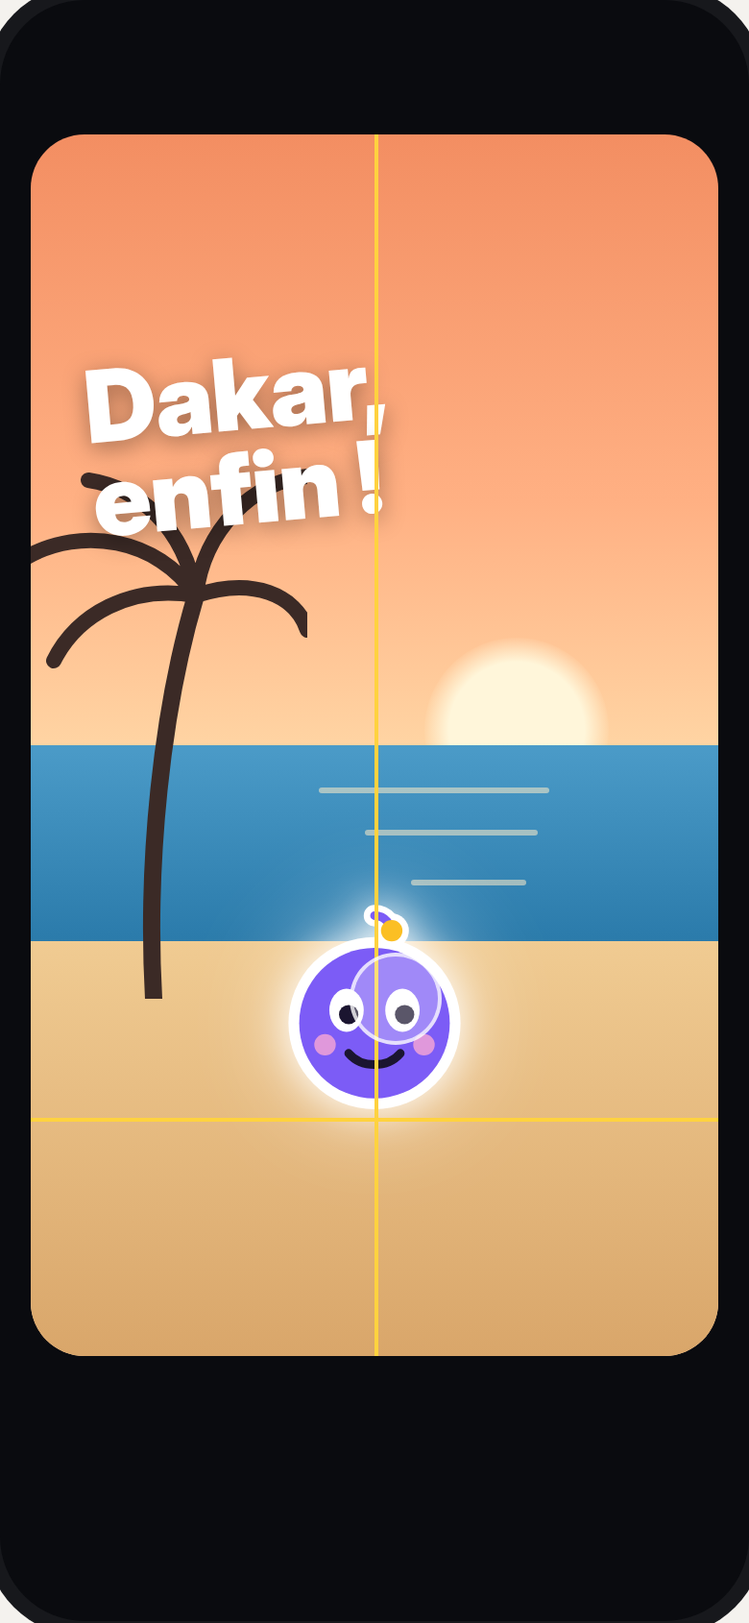
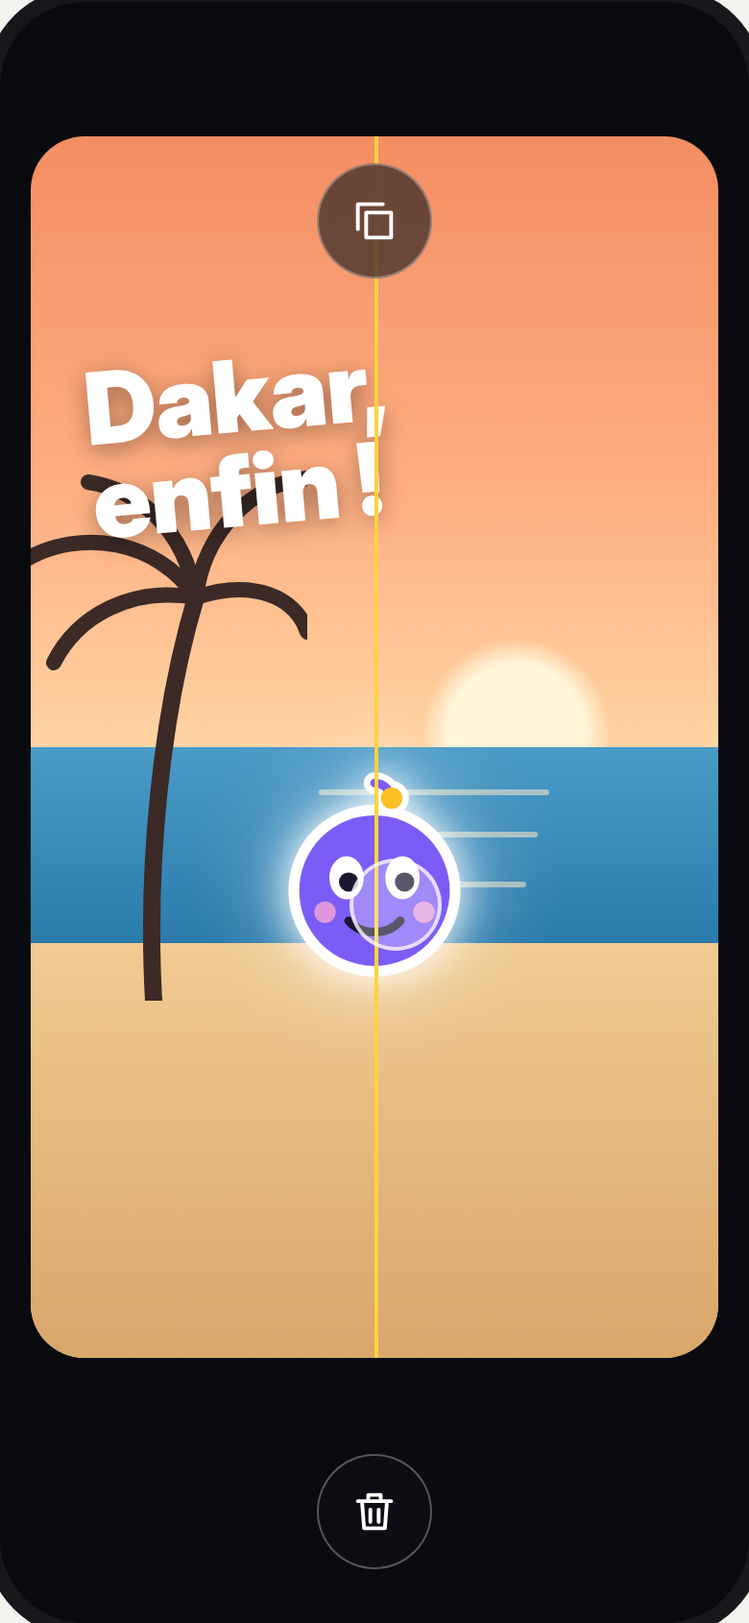
docs(composer): la planche montre le (…) de l'objet, les cibles de glisser et la retouche en composer simple, aplatie à l'envoi
Retours du porteur du 2026-11-09 sur la vue finale du composer :
- O1, O2 : la pilule d'un objet est ‹ · Modifier · Dupliquer · Temps · (…),
  le (…) ouvre un menu dont Retirer est le dernier ; plus de menu à
  l'appui long.
- O3, O12, O13 : glisser un objet fait apparaître la duplication en haut
  et la poubelle en bas ; la copie se pose un rang au-dessus.
- C1 à C4 : retoucher une image ou une vidéo ouvre le composer en mode
  simple ; rien n'est aplati avant l'envoi, la pièce en attente se
  rouvre modifiable.
Lois 6 et 17 révisées. Le registre du kit reprend K18 (menu du (…)),
ajoute K25 (cibles de glisser) et réécrit I5 et I9.

Refs #17312

Claude-Session: https://claude.ai/code/session_017Zypwsj4qB9NVtgUt5HRG3

diff --git a/docs/product/composer-vue-finale/planche.html b/docs/product/composer-vue-finale/planche.html
@@ -114,7 +114,7 @@ h2{font-size:24px;margin:48px 0 4px}
 <body>
 <main>
 <h1>Composer de scènes · la vue finale (proposition)</h1>
-<p class="lead">La grammaire des appels portée au composer de scènes (post, story, réel, mood, retouche). Une seule pilule de verre en bas : (…) · Texte · Média · Publier ▾. Le (…) fait sortir deux rails : à gauche ce qu’on POSE sur la scène, à droite la scène et la publication. Un toucher sur la scène range tout. Une option à réglages s’ouvre dans la pilule, une liste longue en feuille, un outil de création en mode plein écran. Règles détaillées : <code>docs/product/composer-vue-finale.md</code>.</p>
+<p class="lead">La grammaire des appels portée au composer de scènes (post, story, réel, mood, retouche). Révision du 2026-11-09 : toucher un objet montre ses outils, son (…) ouvre le reste avec Retirer en dernier, glisser offre la duplication en haut et la poubelle en bas ; la retouche d’une image ou d’une vidéo est le composer lui-même, en mode simple, aplati seulement à l’envoi. Une seule pilule de verre en bas : (…) · Texte · Média · Publier ▾. Le (…) fait sortir deux rails : à gauche ce qu’on POSE sur la scène, à droite la scène et la publication. Un toucher sur la scène range tout. Une option à réglages s’ouvre dans la pilule, une liste longue en feuille, un outil de création en mode plein écran. Règles détaillées : <code>docs/product/composer-vue-finale.md</code>.</p>
 <p class="law">Ce qui ne doit pas s’afficher ne s’affiche pas (loi 13) : chaque vue ne montre que les contrôles qui servent à cet instant. Les boutons ronds n’ont pas de légende ; leur nom est porté par <code>aria-label</code>.</p>
 <div id="root"></div>
 </main>
@@ -227,7 +227,11 @@ const kbar=(on,o={})=>`<div class="kbar glass deep" role="toolbar" aria-label="B
 const panel=(body)=>`<div class="panel">${body}</div>`;
 const modeHead=(o={})=>`<button type="button" class="ctl glass ${G(o)} abs" style="left:${o.l??30}px;top:${o.t??84}px">Quitter</button>${o.mid??''}${o.valid===false?'':`<button type="button" class="ctl white abs" aria-label="Valider" style="right:${o.r??30}px;top:${o.t??84}px">${o.check?ic('check',20,'#0E1117'):'Valider'}</button>`}`;
 const plaque=(body,o={})=>`<div class="plaque glass ${G(o)}" style="bottom:${o.bottom??28}px">${body}</div>`;
-const objPill=(o={})=>pill({items:[B('back','Revenir à la scène','',48),B('edit','Modifier','',48),B('dup','Dupliquer','',48),B('clock','Temps','',48),B('trash','Retirer','red',48)].join(''),...o});
+const objPill=(o={})=>pill({items:[B('back','Revenir à la scène','',48),B('edit','Modifier','',48),B('dup','Dupliquer','',48),B('clock','Temps','',48),B('more',o.menu?'Fermer les options de l’objet':'Plus d’options pour l’objet',o.menu?'on':'',48)].join(''),...o});
+const dropZone=(k,label,y,o={})=>`<span class="abs" role="img" aria-label="${label}" style="left:50%;top:${y}px;transform:translateX(-50%) scale(${o.hot?1.25:1});width:60px;height:60px;border-radius:50%;display:flex;align-items:center;justify-content:center;${o.hot?(o.red?'background:rgba(229,72,77,.96);box-shadow:0 0 0 6px rgba(229,72,77,.3),0 10px 28px rgba(0,0,0,.4)':'background:rgba(255,255,255,.96);box-shadow:0 0 0 6px rgba(255,255,255,.3),0 10px 28px rgba(0,0,0,.4)'):'background:rgba(14,17,23,.6);border:1px solid rgba(255,255,255,.3);backdrop-filter:blur(24px);-webkit-backdrop-filter:blur(24px)'}">${ic(k,26,o.hot&&!o.red?'#0E1117':'#fff')}</span>`;
+const retouchHead=()=>modeHead({valid:false,mid:`<button class="ctl glass deep abs" style="left:50%;transform:translateX(-50%);top:84px">${ic('dl',18,'#fff')}Photos</button>`})+`<button class="ctl white abs" style="right:30px;top:84px">Terminé</button>`;
+const PIECE=(o={})=>`<div class="abs" style="left:0;top:${o.y??180}px;width:390px;height:${o.h??480}px;background:${SKY};${o.f?`filter:${o.f};`:''}overflow:hidden"><div class="abs" style="left:250px;top:150px;width:80px;height:80px;border-radius:50%;background:radial-gradient(circle,#FFF6DA 0 52%,rgba(255,236,190,0) 72%)"></div></div>${o.objs===false?'':`<div class="abs" style="left:0;top:${o.y??180}px;width:390px;height:${o.h??480}px">${TXT({x:30,y:40,size:40,t:'Regarde ça !'})}${MEE({x:250,y:300,s:92,halo:o.halo})}</div>`}`;
+const retouchPill=(video,on)=>{const z=video?42:48;return pill({items:[B('filter','Looks : filtres, cadres et effets',on==='looks'?'on':'',z),B('crop','Recadrer','',z),B('text','Texte','',z),B('sticker','Sticker','',z),B('draw','Dessin','',z),...(video?[B('cut','Couper',on==='cut'?'on':'',z),B('music','Son','',z)]:[])].join('')})};
 const AV=(i,s=36)=>{const a=[['KD','#0EA5E9'],['AD','#B45309'],['LM','#9333EA'],['SN','#16A34A'],['MB','#DB2777']][i];return `<span class="av" style="width:${s}px;height:${s}px;background:${a[1]};font-size:${s*.36}px">${a[0]}</span>`};
 const FILTERS={Aucun:'none',Naturel:'none',Vintage:'sepia(.55) contrast(.9) brightness(1.05)','N&B':'grayscale(1)',Chaud:'sepia(.25) saturate(1.5) hue-rotate(-12deg)',Froid:'hue-rotate(28deg) saturate(.85)',Dramatique:'contrast(1.45) saturate(.8) brightness(.85)',Vif:'saturate(1.8)',Fané:'contrast(.75) saturate(.6) brightness(1.12)',Chrome:'contrast(1.2) saturate(1.25) hue-rotate(-6deg)',Doré:'sepia(.5) saturate(1.6)',Film:'contrast(1.1) sepia(.2) saturate(.9)'};
 const ftile=(name,on,w=56,h=72,src=SKY)=>`<span class="ftile ${on?'on':''}"><i style="width:${w}px;height:${h}px;background:${src};filter:${FILTERS[name]??'none'}"></i>${name}</span>`;
@@ -291,10 +295,12 @@ const S=[
 {id:'A17',t:'Hashtags',d:'Un champ, les hashtags choisis en puces, et les tendances. Ils se lisent ensuite sous le bord bas de la scène. Lois 8 et 14.',html:phone(above(330,{objs:STD})+refs('#dakar · #plage',344-14+2)+sheet(360,`<div class="field"><span style="color:rgba(255,255,255,.7)">#</span><span>coucher<span class="caret"></span></span></div><div class="chips wrap"><span class="on">#dakar ${ic('x',12,'#0E1117')}</span><span class="on">#plage ${ic('x',12,'#0E1117')}</span></div><span class="lbl">Tendances</span><div>${[['#senegal','12 k publications'],['#coucherdesoleil','8,4 k publications'],['#ngor','2,1 k publications'],['#vacances','41 k publications']].map(([t,s])=>lrow('hash',t,s)).join('')}</div>`,{title:'Hashtags'}))},
 {id:'A18',t:'Lieu',d:'Recherche, « Autour de moi », lieux proches ; le lieu choisi devient celui de la publication et s’affiche sous la scène. Lois 8 et 14.',html:phone(above(330,{objs:STD})+refs(`<span style="display:inline-flex;gap:5px;align-items:center">${ic('pin',13,'#fff')}Plage de Ngor · #dakar</span>`,330-14+2)+sheet(356,`<div class="field">${ic('search',18,'rgba(255,255,255,.7)')}<span class="sub" style="font-size:15px">Rechercher un lieu</span></div><div class="lrow" style="color:#A5B4FC">${ic('locate',22,'#A5B4FC')}<span class="t">Autour de moi</span></div><div>${[['Plage de Ngor','350 m',1],['Île de Ngor','1,2 km'],['Phare des Mamelles','3,4 km'],['Monument de la Renaissance','3,9 km'],['Corniche Ouest','5 km']].map(([n,d,on])=>lrow('pin',n,d,on?ic('check',20,'#fff'):'')).join('')}</div>`,{title:'Lieu'}))}
 ]},
-{h:'Un objet',lead:'Toucher un objet le sélectionne sans cadre ni poignée : un halo, et la pilule devient celle de l’objet. Modifier ouvre un mode plein écran où l’objet reste manipulable au doigt.',b:[
-{id:'O1',t:'Sélection',d:'Le sticker touché passe devant, un léger halo dit la sélection, aucun cadre. L’en-tête et les rails se retirent, ↶ ↷ restent ; la pilule devient ‹ · Modifier · Dupliquer · Temps · Retirer. Loi 6.',html:phone(scene({objs:[TXT(),MEE({halo:true})]})+head({close:false,undo:true})+trace()+refs()+objPill())},
-{id:'O2',t:'Appui long',d:'Les mêmes actions en menu, posé contre l’objet, plus Mettre en fond et Verrouiller (proposition). Retirer en rouge. Loi 6.',html:phone(scene({objs:[TXT(),MEE({halo:true})],f:'brightness(.75)'})+head({close:false,undo:true})+`<div class="menu glass deep" role="menu" style="left:60px;top:250px"><span>Modifier${ic('edit',18,'#fff')}</span><span>Dupliquer${ic('dup',18,'#fff')}</span><span>Mettre en fond${ic('layer',18,'#fff')}</span><span>Verrouiller <span class="tagp">proposition</span>${ic('lock',18,'#fff')}</span><span class="r">Retirer${ic('trash',18,'#FF6B6E')}</span></div>`+objPill())},
-{id:'O3',t:'Glisser : repères d’aimantation',d:'Pendant le geste, seules les lignes de centre et de bord apparaissent ; plus rien d’autre, ni en-tête, ni pilule, ni rail. Lois 6 et 13.',html:phone(scene({objs:[TXT(),MEE({x:123,y:400,halo:true})]})+`<div class="abs" style="left:${16+179}px;top:70px;width:1.5px;height:636px;background:#FFD23F"></div><div class="abs" style="left:16px;top:${70+512}px;width:358px;height:1.5px;background:#FFD23F"></div>`+finger(206,520))},
+{h:'Un objet',lead:'Toucher un objet le sélectionne sans cadre ni poignée : un halo, et la pilule devient celle de l’objet, avec tous ses outils. Son (…) ouvre le reste, Retirer en dernier. Glisser un objet fait apparaître deux cibles : la duplication en haut, la poubelle en bas. Modifier ouvre un mode plein écran où l’objet reste manipulable au doigt.',b:[
+{id:'O1',t:'Toucher : les outils de l’objet',d:'Le sticker touché passe devant, un léger halo dit la sélection, aucun cadre. L’en-tête et les rails se retirent, ↶ ↷ restent ; la pilule devient ‹ · Modifier · Dupliquer · Temps · (…). Aucun bouton rouge au repos : retirer passe par le (…) ou par la poubelle (O3). Loi 6.',html:phone(scene({objs:[TXT(),MEE({halo:true})]})+head({close:false,undo:true})+trace()+refs()+objPill())},
+{id:'O2',t:'(…) de l’objet : le menu',d:'Le (…) de la pilule ouvre un menu posé au-dessus de lui : Mettre devant, Mettre en fond, Verrouiller, et Retirer en dernier, en rouge. Pas de menu à l’appui long : l’appui long commence le glisser. Loi 6.',html:phone(scene({objs:[TXT(),MEE({halo:true})],f:'brightness(.75)'})+head({close:false,undo:true})+`<div class="menu glass deep" role="menu" style="right:44px;bottom:102px"><span>Mettre devant${ic('layer',18,'#fff')}</span><span>Mettre en fond${ic('fond',18,'#fff')}</span><span>Verrouiller${ic('lock',18,'#fff')}</span><span class="r">Retirer${ic('trash',18,'#FF6B6E')}</span></div>`+objPill({menu:true}))},
+{id:'O3',t:'Glisser : repères, duplication et poubelle',d:'Pendant le geste, l’en-tête, la pilule et les rails disparaissent. Il reste les lignes d’aimantation et deux cibles : la duplication en haut, la poubelle en bas, à la place de la pilule. Lois 6 et 13.',html:phone(scene({objs:[TXT(),MEE({x:123,y:330,halo:true})]})+`<div class="abs" style="left:${16+179}px;top:70px;width:1.5px;height:636px;background:#FFD23F"></div>`+dropZone('dup','Déposer ici pour dupliquer',84)+dropZone('trash','Déposer ici pour retirer',756)+finger(206,470))},
+{id:'O12',t:'Lâcher sur la poubelle',d:'L’objet amené sur la poubelle rétrécit, la poubelle grossit et rougit avec un retour haptique ; lâcher le retire. ↶ le ramène. Vaut pour tout objet de la scène : texte, sticker, média, dessin, son. Loi 6.',html:phone(scene({objs:[TXT()]})+dropZone('dup','Déposer ici pour dupliquer',84)+`<div class="abs" style="left:163px;top:700px;opacity:.75">${MEE({x:0,y:0,s:64,halo:true}).replace('class="abs"','')}</div>`+dropZone('trash','Lâcher pour retirer',756,{hot:true,red:true})+finger(214,770))},
+{id:'O13',t:'Lâcher sur la duplication',d:'L’objet amené sur la cible du haut y laisse une copie identique, posée par-dessus l’original (un rang au-dessus), et revient à sa place. La copie est sélectionnée, sa pilule s’affiche. Loi 6.',html:phone(scene({objs:[TXT(),MEE({x:196,y:420}),MEE({x:222,y:446,halo:true})]})+head({close:false,undo:true})+`<div class="annot" style="left:60px;top:590px;width:150px">La copie est au-dessus de l’original</div>`+objPill())},
 {id:'O4',t:'Modifier une photo',d:'Mode plein écran Quitter · Valider ; la photo reste manipulable au doigt, ses outils vivent dans la plaque basse. Loi 9.',html:phone(scene({bg:'#3730A3',objs:[PHOTO({halo:true})]})+modeHead()+plaque(`<div style="display:grid;grid-template-columns:repeat(5,1fr);row-gap:12px">${[['crop','Recadrer'],['filter','Filtres'],['frame','Cadres'],['sliders','Réglages'],['fx','Effets'],['rotate','Pivoter'],['alt','Description'],['layer','Mettre en fond'],['sticker','Faire un sticker']].map(([k,l])=>`<span style="display:flex;flex-direction:column;align-items:center;gap:4px;font-size:11px;font-weight:600;text-align:center">${B(k,l,'soft',44)}${l}</span>`).join('')}</div>`))},
 {id:'O5',t:'Réglages',d:'Onze curseurs, Réinitialiser, et un appui maintenu sur la photo pour comparer avec l’original. Loi 9.',html:phone(scene({bg:'#3730A3',objs:[PHOTO({f:'brightness(1.1) saturate(1.3) contrast(1.1)'})]})+modeHead()+plaque(`<div class="xph"><b style="font-size:15px">Réglages</b><span style="font-size:13px;font-weight:700;color:#A5B4FC">Réinitialiser</span></div><div style="display:grid;grid-template-columns:1fr 1fr;gap:12px 18px">${[['Exposition',55],['Luminosité',62],['Contraste',58],['Saturation',70],['Vibrance',50],['Température',44],['Netteté',30],['Flou',0],['Vignette',20],['Bloom',10],['Grain',15]].map(([n,v])=>slider(n,v)).join('')}</div><span class="sub" style="text-align:center">Maintenez la photo pour comparer</span>`))},
 {id:'O6',t:'Filtres',d:'Une rangée de vignettes, la photo prend le filtre en direct. Loi 9.',html:phone(scene({bg:'#3730A3',objs:[PHOTO({f:FILTERS['Chaud']})]})+modeHead()+plaque(`<div class="xph"><b style="font-size:15px">Filtres</b></div>${ftiles(['Aucun','Vintage','N&B','Chaud','Froid','Dramatique','Vif','Fané','Chrome'],3,{w:50,h:64})}`))},
@@ -326,13 +332,15 @@ const S=[
 ]},
 {h:'Grand écran (iPad)',lead:'Quand la place autour du 9:16 le permet, les rails restent sortis et prennent leur libellé : à gauche « Ajouter », à droite « Scène » ou « Sélection ». Publier passe sous la scène, à sa largeur. Il n’y a plus de pilule.',b:[
 {id:'I1',t:'iPad paysage, repos',d:'Ajouter (Texte et Média en tête) à gauche, Scène à droite, rangée des scènes au-dessus, Publier sous la scène à sa largeur. Loi 15.',html:ipadL()},
-{id:'I2',t:'iPad, un objet choisi',d:'Le rail droit devient « Sélection » : Modifier, Dupliquer, Temps, Verrouiller, Retirer, et ↶ ↷ au pied. Lois 6 et 15.',html:(()=>{const sh=600,sw=Math.round(358*sh/636),sx=Math.round((1180-sw)/2),cy=96+sh/2;const items=[['edit','Modifier'],['dup','Dupliquer'],['clock','Temps'],['lock','Verrouiller'],['trash','Retirer','r']];const foot=`<div style="display:flex;gap:6px;padding:8px 2px 0;border-top:1px solid rgba(255,255,255,.14);margin-top:6px">${B('undo','Annuler','soft')}${B('redo','Rétablir','soft')}</div>`;return ipadL({noUndo:true,objs:[TXT(),MEE({halo:true})],right:rl('Sélection',items,{x:sx+sw+40,y:Math.round(cy-rlH(5,58)/2),foot})})})()},
+{id:'I2',t:'iPad, un objet choisi',d:'Le rail droit devient « Sélection » : Modifier, Dupliquer, Temps, Mettre en fond, Verrouiller, et Retirer en dernier ; ↶ ↷ au pied. Le rail a la place : pas de (…). Glisser fait apparaître les mêmes cibles qu’au téléphone. Lois 6 et 15.',html:(()=>{const sh=600,sw=Math.round(358*sh/636),sx=Math.round((1180-sw)/2),cy=96+sh/2;const items=[['edit','Modifier'],['dup','Dupliquer'],['clock','Temps'],['fond','Mettre en fond'],['lock','Verrouiller'],['trash','Retirer','r']];const foot=`<div style="display:flex;gap:6px;padding:8px 2px 0;border-top:1px solid rgba(255,255,255,.14);margin-top:6px">${B('undo','Annuler','soft')}${B('redo','Rétablir','soft')}</div>`;return ipadL({noUndo:true,objs:[TXT(),MEE({halo:true})],right:rl('Sélection',items,{x:sx+sw+40,y:Math.round(cy-rlH(6,58)/2),foot})})})()},
 {id:'I3',t:'iPad, frise',d:'La frise se pose sous la scène, dans sa colonne ; les rails restent, en grisé. Lois 9 et 15.',html:(()=>{const sh=420,sw=Math.round(358*sh/636);return ipadL({mode:true,dim:true,sh,sy:80,extra:`<div class="plaque glass" style="left:${590-200}px;right:auto;width:400px;top:520px;bottom:auto">${timeline({w:372})}</div>`})})()},
 {id:'I4',t:'iPad portrait',d:'En portrait, les rails sont plus étroits et gardent les mêmes listes. Loi 15.',html:(()=>{const W=820,H=1180,sy=120,sh=840,sw=Math.round(358*sh/636),sx=Math.round((W-sw)/2),cy=sy+sh/2,w=150;return ipad(W,H,at(24,24,B('x','Fermer le composer','glass'))+`<div class="glass abs" style="right:24px;top:24px;border-radius:22px;display:flex">${B('undo','Annuler')}${B('redo','Rétablir')}</div><div class="chip glass" style="left:24px;top:80px">${ic('people',16,'#fff')}Amis${ic('down',14,'#fff')}</div>`+srow(['beach','coral','dark'],{rowTop:22,plain:true})+trace(sy-26)+scene({W,y:sy,h:sh,objs:STD})+refs('#dakar · Avec @karim',sy+sh+8)+at(sx,sy+sh+38,pub('Publier la story',true,{w:sw}))+rl('Ajouter',ADD,{x:Math.round((sx-w)/2),y:Math.round(cy-rlH(8)/2),w,narrow:true})+rl('Scène',SCENE_R,{x:Math.round(sx+sw+(W-sx-sw-w)/2),y:Math.round(cy-rlH(8)/2),w,narrow:true}))})()}
 ]},
-{h:'Retouche d’une image de conversation',lead:'La même grammaire, en plus court : pas de rails, pas de Publier. La pièce retouchée remplace l’originale à sa place dans la conversation.',b:[
-{id:'C1',t:'Retoucher une photo reçue',d:'En-tête Quitter · ⬇ Photos · Terminé ; pilule Filtres · Cadres · Recadrer · Texte. Loi 17.',html:phone(`<div class="abs" style="left:0;top:180px;width:390px;height:480px;background:${SKY}"></div><div class="abs" style="left:250px;top:330px;width:80px;height:80px;border-radius:50%;background:radial-gradient(circle,#FFF6DA 0 52%,rgba(255,236,190,0) 72%)"></div>`+modeHead({valid:false,mid:`<button class="ctl glass deep abs" style="left:50%;transform:translateX(-50%);top:84px">${ic('dl',18,'#fff')}Photos</button>`})+`<button class="ctl white abs" style="right:30px;top:84px">Terminé</button>`+pill({items:[B('filter','Filtres','',48),B('frame','Cadres','',48),B('crop','Recadrer','',48),B('text','Texte','',48)].join('')}),'#000')},
-{id:'C2',t:'Retoucher une vidéo',d:'Pour une vidéo, la pilule ajoute Couper et Son ; Couper ouvre au-dessus d’elle la même piste de coupe que le composer (O8). Loi 17.',html:phone(`<div class="abs" style="left:0;top:160px;width:390px;height:440px;background:#1F2937"><div class="abs" style="left:0;top:0;width:390px;height:440px;background:${SKY};filter:hue-rotate(-20deg) brightness(.8)"></div></div>`+modeHead({valid:false,mid:`<button class="ctl glass deep abs" style="left:50%;transform:translateX(-50%);top:84px">${ic('dl',18,'#fff')}Photos</button>`})+`<button class="ctl white abs" style="right:30px;top:84px">Terminé</button><div class="abs" style="left:16px;right:16px;bottom:118px;display:flex;flex-direction:column;gap:6px">${trimTrack({kind:'video',a:.1,b:.8,ph:.3})}</div>`+pill({items:[B('filter','Filtres','',48),B('frame','Cadres','',48),B('crop','Recadrer','',48),B('text','Texte','',48),B('cut','Couper','on',48),B('music','Son','',48)].join('')}),'#000')}
+{h:'Retouche d’une image ou d’une vidéo : le composer en mode simple',lead:'Le même composer, la même scène, en plus court : la pièce est le fond d’une scène d’une diapo, on y pose texte, stickers et dessin comme partout. Pas de rails, pas de Publier. Rien n’est aplati tant que le message, le statut ou la publication n’est pas envoyé : chaque réouverture retrouve chaque élément, déplaçable et modifiable.',b:[
+{id:'C1',t:'Retoucher une photo',d:'En-tête Quitter · ⬇ Photos · Terminé ; pilule Looks · Recadrer · Texte · Sticker · Dessin. Le texte et le sticker posés restent des objets de la scène. Loi 17.',html:phone(PIECE()+retouchHead()+retouchPill(false),'#000')},
+{id:'C2',t:'Retoucher une vidéo',d:'Pour une vidéo, la pilule ajoute Couper et Son ; Couper ouvre au-dessus d’elle la même piste de coupe que le composer (O8). Loi 17.',html:phone(PIECE({y:160,h:440,f:'hue-rotate(-20deg) brightness(.8)',objs:false})+retouchHead()+`<div class="abs" style="left:16px;right:16px;bottom:118px;display:flex;flex-direction:column;gap:6px">${trimTrack({kind:'video',a:.1,b:.8,ph:.3})}</div>`+retouchPill(true,'cut'),'#000')},
+{id:'C3',t:'Un objet posé sur la pièce',d:'Toucher le sticker posé donne la même pilule d’objet que dans le composer (O1), les mêmes gestes, les mêmes cibles au glisser (O3). Rien ne change d’une opération à l’autre. Lois 6 et 17.',html:phone(PIECE({halo:true})+`<div class="glass deep abs" style="right:30px;top:84px;border-radius:22px;display:flex">${B('undo','Annuler','',40)}${B('redo','Rétablir','',40)}</div>`+objPill(),'#000')},
+{id:'C4',t:'En attente d’envoi : toujours modifiable',d:'« Terminé » ramène à la conversation avec la pièce en attente, PAS aplatie : la toucher rouvre la scène, où chaque élément se déplace et se modifie encore. L’aplatissement n’a lieu qu’à l’envoi (message, statut, publication). Loi 17.',html:phone(`<div class="abs" style="inset:0;background:#14151A"></div><div class="abs" style="left:0;right:0;top:54px;height:56px;display:flex;align-items:center;gap:10px;padding:0 14px">${B('back','Retour','glass',40)}${AV(0,36)}<b style="font-size:16px">Karim</b></div>${[[120,'Tu arrives quand ?',0],[176,'J’atterris à 18 h',1],[232,'Envoie une photo !',0]].map(([y,t,me])=>`<div class="abs" style="${me?'right:14px;background:#6366F1':'left:14px;background:#2A2C34'};top:${y}px;padding:10px 14px;border-radius:18px;font-size:15px">${t}</div>`).join('')}<div class="annot" style="left:118px;top:560px;width:240px">Toucher la pièce rouvre la scène : rien n’est aplati avant l’envoi</div><div class="abs" style="left:12px;right:12px;bottom:28px;border-radius:26px;background:#22242B;padding:10px;display:flex;flex-direction:column;gap:10px"><div style="position:relative;width:86px;height:116px;border-radius:14px;overflow:hidden;background:${SKY};box-shadow:0 0 0 2px #fff"><div class="abs" style="left:6px;top:8px;font:900 11px/1 Inter,sans-serif;transform:rotate(-5deg)">Regarde ça !</div><svg class="abs" style="left:52px;top:74px" width="26" height="26" viewBox="0 0 100 100" aria-hidden="true"><circle cx="50" cy="56" r="40" fill="#fff"/><circle cx="50" cy="56" r="33" fill="#7C5CF6"/></svg><span class="abs" aria-label="Modifier la pièce" style="right:4px;top:4px;width:26px;height:26px;border-radius:50%;background:rgba(14,17,23,.7);display:flex;align-items:center;justify-content:center">${ic('edit',14,'#fff')}</span></div><div style="display:flex;align-items:center;gap:8px">${B('plus','Ajouter','soft',40)}<span class="field" style="flex:1;padding:10px 14px;color:rgba(255,255,255,.6)">Message</span><button class="btn" aria-label="Envoyer" style="width:40px;height:40px;background:#6366F1">${ic('share',18)}</button></div></div>`,'#14151A')}
 ]}
 ];
 document.getElementById('root').innerHTML=S.map(s=>`<h2>${s.h}</h2><p class="lead">${s.lead}</p><div class="row">${s.b.map(b=>`<figure class="board" id="${b.id}"><span class="id">${b.id}</span><h3>${b.t}</h3><p>${b.d}</p>${b.html}</figure>`).join('')}</div>`).join('');

diff --git a/.claude/workflows/meeshy-kit-planche.js b/.claude/workflows/meeshy-kit-planche.js
@@ -342,7 +342,7 @@ Chaque écart « bloquant » ou « a_corriger » devient une issue (titre séman
 phase('Couvrir')
 const couverture = await agent(`
 Lecture seule sur origin/${BASE} de ${REPO}, sauf les issues que tu ouvres. Matrice de couverture de la planche ${PLANCHE} : ses vues
-(R1–R13, A1–A18, O1–O11, S1–S10, P1–P6, I1–I4, C1–C2 ; une vue que le champ decisions_porteur du registre retire ne se compte pas) × iOS et Android.
+(lis leurs identifiants dans la planche elle-même : chaque « id » de la table S) × iOS et Android.
 Pour chaque vue : l'écran qui la réalise existe-t-il, se compose-t-il des composants du kit SEULS (${FICHES}/), et respecte-t-il les lois citées
 par la vue dans ${LOIS} (disposition, hiérarchie, états, gestes) ? Appuie-toi sur le code, les témoins et les instantanés, pas sur les titres d'issues.
 Une vue en écart sans issue ouverte en reçoit une (même milestone). Relève les cliquets de la garde du kit sur chaque plateforme

diff --git a/docs/product/composer-vue-finale.md b/docs/product/composer-vue-finale.md
@@ -40,11 +40,13 @@
    - Sur une scène vierge, le premier toucher arme la caméra (rien d'autre n'y a de sens).
    - Avec un objet sélectionné, le toucher désélectionne d'abord.
    - Rangé : **la scène prend tout l'écran en gardant ses proportions**, avec un peu de noir en haut et en bas, ou à gauche et à droite, selon l'écran. Plus aucun contrôle. Il n'y a pas de minuterie.
-6. **Toucher un objet le sélectionne, et la pilule devient celle de l'objet : ‹ · Modifier · Dupliquer · Temps · Retirer.**
-   - L'objet passe devant. Aucun cadre ni poignée ne s'affiche ; un léger halo dit la sélection, les repères d'aimantation n'apparaissent que pendant le geste.
+6. **Toucher un objet le sélectionne, et la pilule devient celle de l'objet : ‹ · Modifier · Dupliquer · Temps · (…).** (révisée le 2026-11-09)
+   - L'objet passe devant. Aucun cadre ni poignée ne s'affiche ; un léger halo dit la sélection.
    - Les rails et l'en-tête se retirent, ↶ ↷ restent.
-   - Appui long = les mêmes actions en menu, posé contre l'objet. Double toucher = Modifier.
-   - Retirer est rouge. Modifier et Temps disparaissent sur un objet verrouillé.
+   - **(…) ouvre le menu de l'objet**, posé au-dessus de lui : Mettre devant, Mettre en fond, Verrouiller, et **Retirer en dernier, en rouge**. Aucun bouton rouge dans la pilule au repos.
+   - **Il n'y a pas de menu à l'appui long** : l'appui long commence le glisser. Double toucher = Modifier.
+   - **Glisser un objet fait apparaître deux cibles**, et rien d'autre que les repères d'aimantation : la **duplication en haut**, la **poubelle en bas, à la place de la pilule**. Lâcher sur la poubelle retire l'objet (↶ le ramène) ; lâcher sur la duplication pose une copie identique un rang au-dessus de l'original, et l'original revient à sa place. Cela vaut pour tout objet de la scène.
+   - Modifier et Temps disparaissent sur un objet verrouillé. Sur grand écran, le rail « Sélection » liste tout, Retirer en dernier, sans (…).
 7. **Une option à réglages s'ouvre DANS la pilule, qui grandit vers le haut avec ‹ Retour et Fermer.** Fond, Cadre du fond, Transitions, Effet visuel, Durée, Audience, formats de Publier. La scène garde sa taille et montre l'effet en direct.
 8. **Une liste longue s'ouvre en feuille ancrée** : Stickers, Mention, Hashtags, Lieu, sons, Sauf… et Seulement… de l'audience. La scène se réduit au-dessus d'elle, jamais dessous.
 9. **Modifier, Dessin, Caméra et Frise sont des modes plein écran : Quitter · Réglages · Valider.**
@@ -62,7 +64,7 @@
 14. **Le son de fond se lit au-dessus de la scène, les références en dessous.** Une trace fine (titre, auteur, onde) au-dessus du bord haut ; hashtags et « Avec @… » en une ligne sous le bord bas, absente si vide. Toucher l'une ou l'autre rouvre sa feuille.
 15. **Grand écran (iPad, Mac) : les rails restent sortis et prennent leur libellé** quand la place autour du 9:16 le permet (`ComposerSceneArrangement`). Gauche « Ajouter » avec Texte et Média en tête ; droite « Sélection » quand un objet est choisi, sinon « Scène ». Publier passe sous la scène, à la largeur de la scène. Les modes plein écran gardent les rails, en grisé.
 16. **Publier, c'est voir partir.** Publier se change en anneau de progression dans la pilule ; hors ligne, la pilule dit « Publiée au retour en ligne » ; un échec partiel garde la publication en brouillon et le dit en une capsule avec Réessayer. Fermer un brouillon non vide demande « Garder le brouillon · Abandonner ».
-17. **Retoucher une image de conversation suit la même grammaire, en plus court.** En-tête Quitter · Terminé ; pilule Filtres · Cadres · Recadrer · Texte, plus Couper et Son pour une vidéo ; ⬇ Photos dans l'en-tête. Pas de rails, pas de Publier : la pièce remplace l'originale à sa place.
+17. **Retoucher une image ou une vidéo, c'est le composer lui-même, en mode simple** (révisée le 2026-11-09 ; remplace la décision du 2026-10-20, #11133). La pièce est le fond d'une scène d'une seule diapo, à ses proportions. En-tête Quitter · ⬇ Photos · Terminé ; pilule Looks · Recadrer · Texte · Sticker · Dessin, plus Couper et Son pour une vidéo. Pas de rails, pas d'audience, pas de Publier. Ce qu'on pose est un objet de la scène, avec la pilule d'objet et les gestes de la loi 6. **Rien n'est aplati avant l'envoi** (message, statut, publication) : « Terminé » rend la pièce en attente AVEC sa scène, et la rouvrir retrouve chaque élément, déplaçable et modifiable. Une pièce non modifiée part telle quelle, sans réencodage.
 
 ## Les vues
 
@@ -110,17 +112,21 @@ Le tableau des vues et leurs captures est généré avec la planche (voir l'inde
 
 ### Un objet
 
-| O1 · Sélection | O2 · Appui long | O3 · Glisser : repères d’aimantation | O4 · Modifier une photo |
+| O1 · Toucher : les outils de l’objet | O2 · (…) de l’objet : le menu | O3 · Glisser : repères, duplication et poubelle | O12 · Lâcher sur la poubelle |
 |---|---|---|---|
-| ![O1](composer-vue-finale/vues/O1.png) | ![O2](composer-vue-finale/vues/O2.png) | ![O3](composer-vue-finale/vues/O3.png) | ![O4](composer-vue-finale/vues/O4.png) |
+| ![O1](composer-vue-finale/vues/O1.png) | ![O2](composer-vue-finale/vues/O2.png) | ![O3](composer-vue-finale/vues/O3.png) | ![O12](composer-vue-finale/vues/O12.png) |
 
-| O5 · Réglages | O6 · Filtres | O7 · Recadrer | O8 · Vidéo : couper et son |
+| O13 · Lâcher sur la duplication | O4 · Modifier une photo | O5 · Réglages | O6 · Filtres |
 |---|---|---|---|
-| ![O5](composer-vue-finale/vues/O5.png) | ![O6](composer-vue-finale/vues/O6.png) | ![O7](composer-vue-finale/vues/O7.png) | ![O8](composer-vue-finale/vues/O8.png) |
+| ![O13](composer-vue-finale/vues/O13.png) | ![O4](composer-vue-finale/vues/O4.png) | ![O5](composer-vue-finale/vues/O5.png) | ![O6](composer-vue-finale/vues/O6.png) |
 
-| O9 · Description (texte alternatif) | O10 · Temps de l’objet | O11 · Texte en édition, manipulé au doigt |
-|---|---|---|
-| ![O9](composer-vue-finale/vues/O9.png) | ![O10](composer-vue-finale/vues/O10.png) | ![O11](composer-vue-finale/vues/O11.png) |
+| O7 · Recadrer | O8 · Vidéo : couper et son | O9 · Description (texte alternatif) | O10 · Temps de l’objet |
+|---|---|---|---|
+| ![O7](composer-vue-finale/vues/O7.png) | ![O8](composer-vue-finale/vues/O8.png) | ![O9](composer-vue-finale/vues/O9.png) | ![O10](composer-vue-finale/vues/O10.png) |
+
+| O11 · Texte en édition, manipulé au doigt |
+|---|
+| ![O11](composer-vue-finale/vues/O11.png) |
 
 ### La scène
 
@@ -152,11 +158,11 @@ Le tableau des vues et leurs captures est généré avec la planche (voir l'inde
 |---|---|---|---|
 | ![I1](composer-vue-finale/vues/I1.png) | ![I2](composer-vue-finale/vues/I2.png) | ![I3](composer-vue-finale/vues/I3.png) | ![I4](composer-vue-finale/vues/I4.png) |
 
-### Retouche d’une image de conversation
+### Retouche d’une image ou d’une vidéo : le composer en mode simple
 
-| C1 · Retoucher une photo reçue | C2 · Retoucher une vidéo |
-|---|---|
-| ![C1](composer-vue-finale/vues/C1.png) | ![C2](composer-vue-finale/vues/C2.png) |
+| C1 · Retoucher une photo | C2 · Retoucher une vidéo | C3 · Un objet posé sur la pièce | C4 · En attente d’envoi : toujours modifiable |
+|---|---|---|---|
+| ![C1](composer-vue-finale/vues/C1.png) | ![C2](composer-vue-finale/vues/C2.png) | ![C3](composer-vue-finale/vues/C3.png) | ![C4](composer-vue-finale/vues/C4.png) |
 
 ## Ce que la proposition ajoute ou change au code de `dev`
 
@@ -167,7 +173,9 @@ Le tableau des vues et leurs captures est généré avec la planche (voir l'inde
 | Pilule unique en bas, outils derrière (…) | Colonne droite de 8 à 10 boutons ronds toujours visible | R2, R3 |
 | Audience en puce d'en-tête | Puce à gauche de Publier, en bas | R2 |
 | Publier masqué sur scène vide | Publier visible, refus motivé au toucher | R1 |
-| Sélection sans cadre, pilule de l'objet | Cadre pointillé blanc, barre Modifier · Dupliquer · Temps · Retirer à la place de la colonne | O1 |
+| Sélection sans cadre, pilule de l'objet avec (…), Retirer en dernier du menu | Cadre pointillé blanc, barre Modifier · Dupliquer · Temps · Retirer à la place de la colonne | O1, O2 |
+| Glisser un objet vers la poubelle (bas) ou la duplication (haut) | Aucune cible de dépôt | O3, O12, O13 |
+| La retouche d'une pièce est le composer en mode simple, aplati à l'envoi seulement | Retouche de la prise (`ConversationPieceRetouch`), aplatie à « Terminé » | C1 à C4 |
 | Fond, Durée, Transitions dans la pilule | Feuilles ancrées « Fond », « Durée de la diapo » | S1, S5 |
 | Modifier en mode Quitter · Réglages · Valider | Rail Modifier dans la colonne, propriétés en plaque basse | O3 |
 | Rangée des scènes en surimpression ; double toucher duplique, appui long croix + glisser | Rangée dans un cadre ; `moveSlide` / `duplicateSlide` sans appelant | R5, R6 |
@@ -175,4 +183,4 @@ Le tableau des vues et leurs captures est généré avec la planche (voir l'inde
 | Une seule piste de rognage pour le son et la vidéo : onde ou vignettes, poignées, tête de lecture, volume, muet | Trois pistes voisines : `MediaTrimStrip`, `ComposerTrimTrack`, `MeeshyAudioTrimmer` | A15, O8, C2 |
 | Frise premium : contenu réel par piste (vignettes, texte, sticker, onde), pincer pour zoomer, aimantation avec retour haptique | Les pistes son et vidéo portent déjà leur onde (`WaveformStrip`) ; le reste est à relever dans le code | S8, S9 |
 | Rangé = scène plein écran, proportions gardées | Pas d'état rangé | R4 |
-| Verrouiller un objet depuis la pilule de l'objet | `isLocked` respecté, aucune bascule dans l'UI | O2 |
+| Verrouiller un objet depuis le (…) de la pilule de l'objet | `isLocked` respecté, aucune bascule dans l'UI | O2 |
